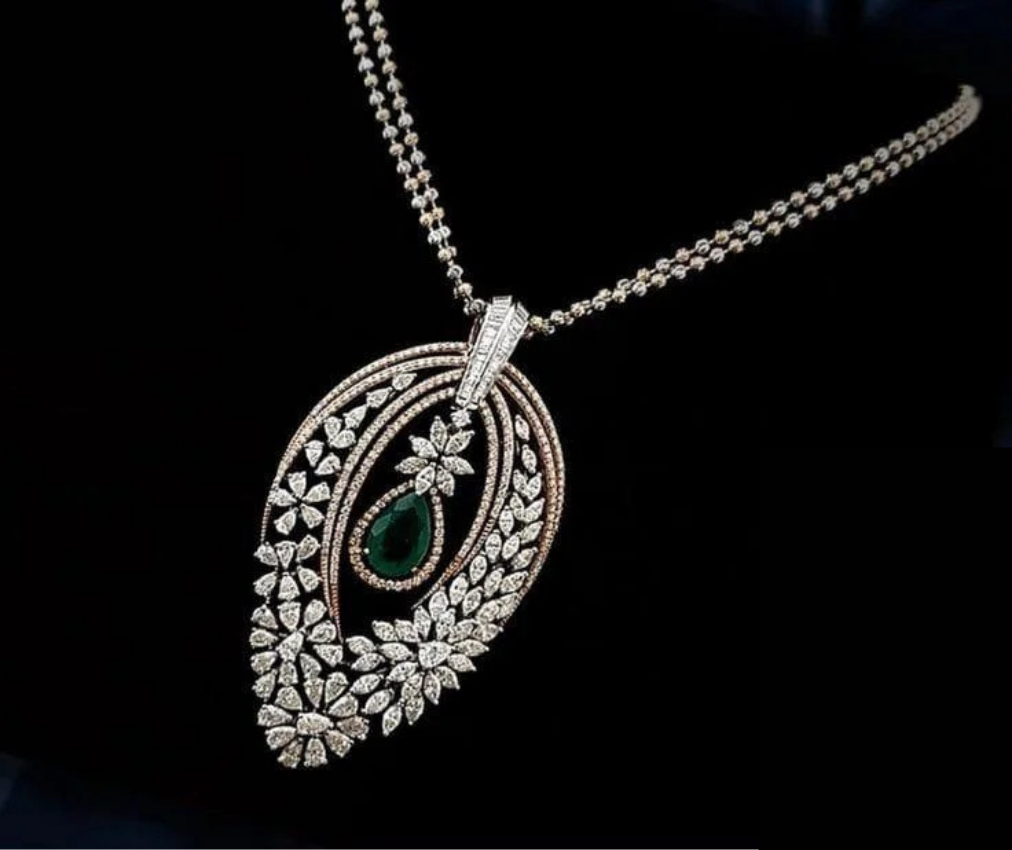
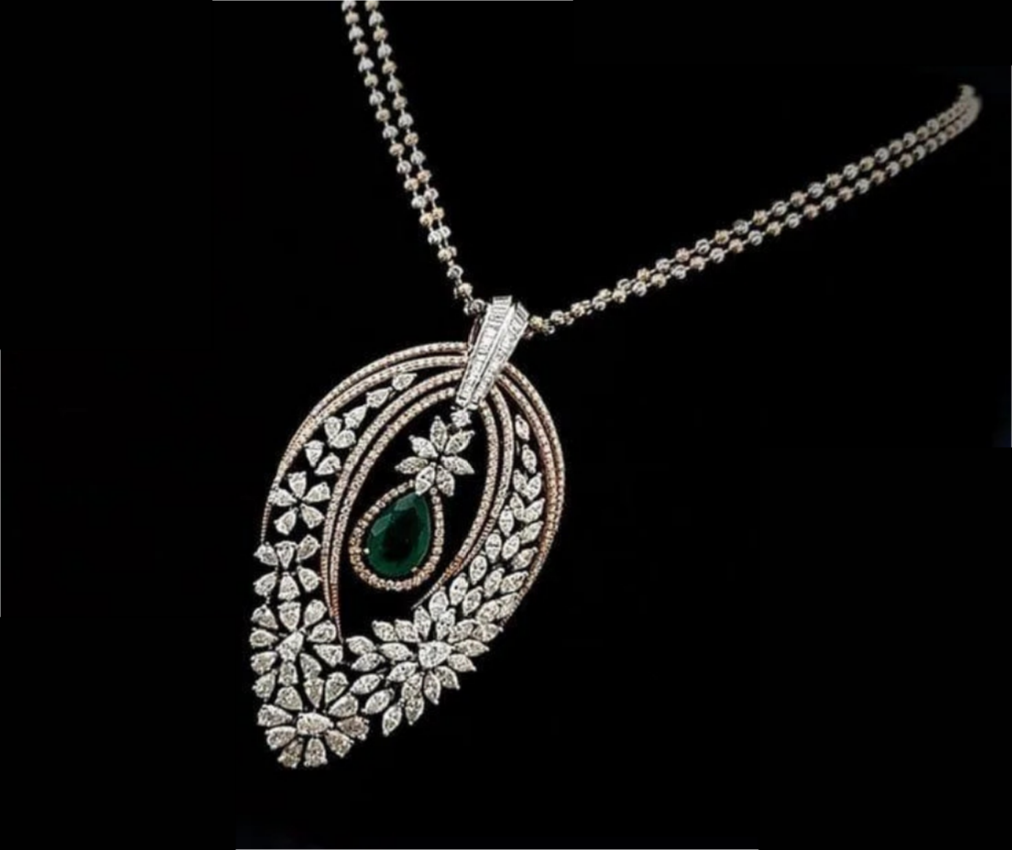
Fix image-search wishlist prices, rename cart->wishlist analytics event, redesign header/grid layout, update thumbnails

diff --git a/frontend/src/App.tsx b/frontend/src/App.tsx
@@ -94,7 +94,7 @@ function App() {
     setCart((prev) => {
       const alreadyWishlisted = prev.some((item) => item.id === product.id);
       trackEvent(
-        alreadyWishlisted ? "product_removed_from_wishlist" : "product_added_to_cart",
+        alreadyWishlisted ? "product_removed_from_wishlist" : "product_added_to_wishlist",
         { product_id: product.id, product_name: product.name },
       );
       return alreadyWishlisted
@@ -207,7 +207,7 @@ function App() {
     content = (
       <div className="flex h-dvh flex-col overflow-hidden bg-black text-white">
         <div
-          className={`flex h-full w-full flex-col ${
+          className={`grid h-full w-full grid-rows-[auto_1fr] ${
             cart.length > 0 ? "pb-24" : ""
           }`}
         >
@@ -218,37 +218,35 @@ function App() {
             onNewUser={handleNewUser}
           />
 
-          <div className="flex min-h-0 flex-1 flex-col overflow-y-auto">
-            <CategoryGrid
-              activeCategory={activeCategory}
-              onSelect={handleCategorySelect}
-            />
+          <CategoryGrid
+            activeCategory={activeCategory}
+            onSelect={handleCategorySelect}
+          />
 
-            <input
-              ref={fileInputRef}
-              type="file"
-              accept="image/*"
-              capture="environment"
-              className="hidden"
-              onChange={(e) => {
-                const file = e.target.files?.[0];
-                if (file) handleSelect(file);
-                e.target.value = "";
-              }}
-            />
+          <input
+            ref={fileInputRef}
+            type="file"
+            accept="image/*"
+            capture="environment"
+            className="hidden"
+            onChange={(e) => {
+              const file = e.target.files?.[0];
+              if (file) handleSelect(file);
+              e.target.value = "";
+            }}
+          />
 
-            <input
-              ref={galleryInputRef}
-              type="file"
-              accept="image/*"
-              className="hidden"
-              onChange={(e) => {
-                const file = e.target.files?.[0];
-                if (file) handleSelect(file);
-                e.target.value = "";
-              }}
-            />
-          </div>
+          <input
+            ref={galleryInputRef}
+            type="file"
+            accept="image/*"
+            className="hidden"
+            onChange={(e) => {
+              const file = e.target.files?.[0];
+              if (file) handleSelect(file);
+              e.target.value = "";
+            }}
+          />
         </div>
       </div>
     );

diff --git a/frontend/src/components/Header.tsx b/frontend/src/components/Header.tsx
@@ -2,7 +2,7 @@ import { useRef, useState } from "react";
 import { trackEvent } from "../lib/analytics";
 import { isVoiceSearchSupported, startVoiceSearch } from "../lib/voiceSearch";
 import { CameraChoicePopup } from "./CameraChoicePopup";
-import { CameraIcon, MicIcon, RefreshIcon, SearchIcon } from "./icons";
+import { CameraIcon, MicIcon, PlusIcon, SearchIcon } from "./icons";
 import { SearchPopup } from "./SearchPopup";
 import { VoicePopup } from "./VoicePopup";
 
@@ -95,15 +95,17 @@ export function Header({ onCameraClick, onUploadClick, onVoiceResult, onNewUser 
   }
 
   return (
-    <header className="px-5 pt-2">
-      <img
-        src="/logo.png"
-        alt="Reeya Diamonds"
-        className="mx-auto h-32 w-auto object-contain"
-      />
+    <header className="flex flex-col gap-3 pt-4">
+      <div className="flex items-center justify-center px-5">
+        <img
+          src="/logo.png"
+          alt="Reeya Diamonds"
+          className="h-32 w-auto object-contain"
+        />
+      </div>
 
-      <div className="-mt-2 flex items-center justify-between gap-3">
-        <div className="flex shrink-0 items-center gap-4 rounded-full border border-gold/50 py-3 pr-5 pl-4">
+      <div className="flex items-center justify-between px-10">
+        <div className="ml-[5%] flex shrink-0 items-center gap-4 rounded-full border border-gold/50 py-3 pr-5 pl-4">
           <button
             type="button"
             onClick={handleMicClick}
@@ -136,10 +138,10 @@ export function Header({ onCameraClick, onUploadClick, onVoiceResult, onNewUser 
         <button
           type="button"
           onClick={onNewUser}
-          className="flex shrink-0 items-center gap-2 rounded-full border border-gold/40 px-6 py-3 text-lg font-medium text-gold/80"
+          aria-label="New user"
+          className="mr-[5%] flex size-16 shrink-0 items-center justify-center rounded-full border border-gold/40 text-gold/80"
         >
-          <RefreshIcon className="size-7" />
-          New User
+          <PlusIcon className="size-7" />
         </button>
       </div>
 

diff --git a/frontend/src/components/CategoryGrid.tsx b/frontend/src/components/CategoryGrid.tsx
@@ -83,7 +83,7 @@ function CategoryTile({
       >
         <CategoryThumbnail label={label} Icon={Icon} />
       </div>
-      <span className="shrink-0 font-category text-2xl tracking-[2px] text-gold">
+      <span className="shrink-0 font-category text-[25px] tracking-[2px] text-gold">
         {label}
       </span>
     </button>
@@ -95,7 +95,7 @@ export function CategoryGrid({ onSelect, activeCategory }: CategoryGridProps) {
   const bottomRow = CATEGORIES.slice(3, 6);
 
   return (
-    <div className="flex h-full w-full flex-1 flex-col justify-evenly gap-8 px-10 py-6">
+    <div className="flex h-full min-h-0 w-full flex-col justify-start gap-48 px-10 pt-[126px]">
       {[topRow, bottomRow].map((row, i) => (
         <div key={i} className="flex w-full gap-8">
           {row.map(({ label, Icon }) => (

diff --git a/frontend/src/components/ResultsGrid.tsx b/frontend/src/components/ResultsGrid.tsx
@@ -63,7 +63,12 @@ export function ResultsGrid({ matches, wishlistIds, onView, onToggleWishlist }: 
                 <p className="truncate text-xs font-medium text-white">
                   {match.name}
                 </p>
-                <p className="text-[11px] text-gold/80">
+                {match.price != null && (
+                  <p className="text-[11px] text-gold/80">
+                    ₹{Math.round(match.price).toLocaleString("en-IN")}
+                  </p>
+                )}
+                <p className="text-[11px] text-neutral-500">
                   {Math.round(match.similarity * 100)}% match
                 </p>
               </div>

diff --git a/frontend/src/components/icons.tsx b/frontend/src/components/icons.tsx
@@ -173,6 +173,14 @@ export function SearchIcon(props: SVGProps<SVGSVGElement>) {
   );
 }
 
+export function PlusIcon(props: SVGProps<SVGSVGElement>) {
+  return (
+    <svg viewBox="0 0 24 24" fill="none" stroke="currentColor" strokeWidth={1.5} {...props}>
+      <path strokeLinecap="round" d="M12 4.5v15M4.5 12h15" />
+    </svg>
+  );
+}
+
 export function AccountIcon(props: SVGProps<SVGSVGElement>) {
   return (
     <svg viewBox="0 0 24 24" fill="none" stroke="currentColor" strokeWidth={1.5} {...props}>

diff --git a/frontend/src/lib/categoryImages.ts b/frontend/src/lib/categoryImages.ts
@@ -7,8 +7,8 @@
 export const CATEGORY_IMAGES: Record<string, string> = {
   Earrings: "/earrings_thumbnail.webp",
   Pendants: "/pendant_thumbnail.png",
-  Necklace: "/necklace_thumbnail.webp",
-  Rings: "/rings_thumbnail.webp",
+  Necklace: "/necklace_thumbnail.png",
+  Rings: "/rings_thumbnail.jpg",
   Bangles: "/bangle_thumbnail.png",
   Bracelets:
     "https://reeyalifestyle.com/wp-content/uploads/2025/11/WhatsApp-Image-2025-11-13-at-14.58.15.jpeg",

diff --git a/frontend/src/lib/api.ts b/frontend/src/lib/api.ts
@@ -12,6 +12,7 @@ export interface ProductMatch {
   id: string;
   name: string;
   image_s3_url: string;
+  price: number | null;
   similarity: number;
 }
 

diff --git a/backend/app/routers/image_search.py b/backend/app/routers/image_search.py
@@ -56,8 +56,26 @@ def image_search(
         },
     ).execute()
 
-    matches = [ProductMatch(**row) for row in result.data]
-    matched_product_ids = [str(match.id) for match in matches]
+    matched_product_ids = [str(row["id"]) for row in result.data]
+
+    # match_products (a stored SQL function) doesn't return price, so it's
+    # fetched here with a plain follow-up query instead of migrating that
+    # function — this is the same data, just one extra cheap lookup.
+    prices = (
+        supabase.table("products")
+        .select("id, price")
+        .in_("id", matched_product_ids)
+        .execute()
+        .data
+        if matched_product_ids
+        else []
+    )
+    price_by_id = {row["id"]: row["price"] for row in prices}
+
+    matches = [
+        ProductMatch(**row, price=price_by_id.get(str(row["id"])))
+        for row in result.data
+    ]
 
     inserted = (
         supabase.table("uploaded_images")

diff --git a/backend/app/models/schemas.py b/backend/app/models/schemas.py
@@ -29,6 +29,7 @@ class ProductMatch(BaseModel):
     id: UUID
     name: str
     image_s3_url: str
+    price: float | None = None
     similarity: float = Field(ge=-1, le=1)
 
 

diff --git a/backend/ANALYTICS.md b/backend/ANALYTICS.md
@@ -75,10 +75,10 @@ next reset. `session_started` / `session_ended` bound each session.
 | `search_performed` | `{ query, source }` | A voice or typed search is actually submitted — `source` is `"voice"` or `"text"` |
 | `filter_applied` | `{ filter_type, value, category }` | An Age Group / Price Band / Usage filter is selected on the Refine Search screen |
 | `product_viewed` | `{ product_id, product_name, category_name }` | A search-result product card is tapped |
-| `product_added_to_cart` | `{ product_id, product_name }` | The wishlist heart is tapped on a product not yet wishlisted (cart and wishlist are the same list) |
+| `product_added_to_wishlist` | `{ product_id, product_name }` | The wishlist heart is tapped on a product not yet wishlisted |
 | `product_removed_from_wishlist` | `{ product_id, product_name }` | The wishlist heart is tapped on an already-wishlisted product, or its remove (X) button is tapped on the Wishlist screen |
 | `order_completed` | `{ total_amount, item_count }` | The "Let's connect" name + phone popup is submitted successfully |
-| `order_abandoned` | `{ item_count }` | New User tapped while cart still has items (customer walked away) |
+| `order_abandoned` | `{ item_count }` | New User tapped while the wishlist still has items (customer walked away) |
 
 **Note on leads (PII):** submitting the "Let's connect" popup does **not** log a kiosk_event — name and phone are PII and don't belong in an append-only, unauthenticated-write log the way the events above do. Instead it hits `POST /leads` (see `app/routers/leads.py`), which upserts into a dedicated `leads` table keyed by (normalized) phone number — a repeat submission from the same customer, even across separate kiosk sessions, updates one row instead of creating a duplicate. That row's `session_ids` array accumulates every kiosk `session_id` that phone has ever submitted under, so a customer's full activity history across all their visits (every event above, for any of those sessions) can be pulled with:
 
